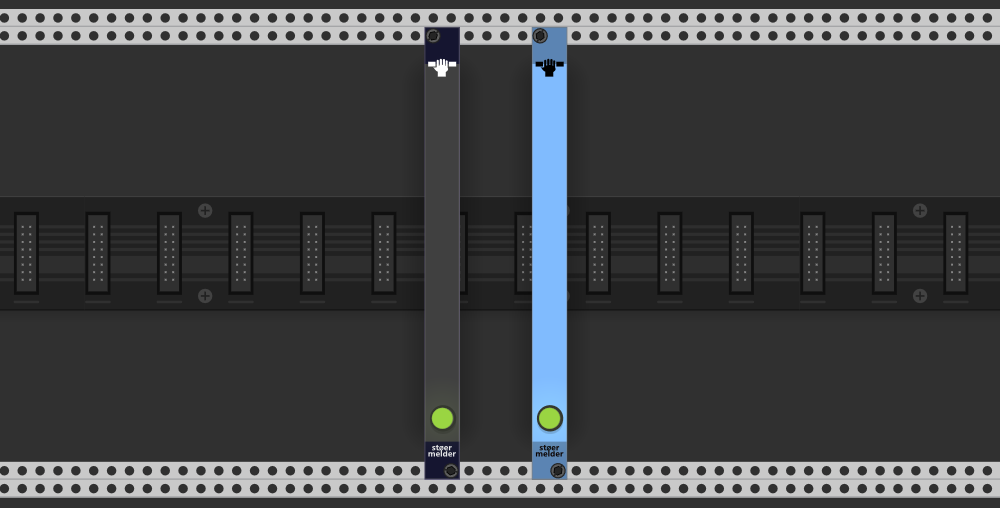
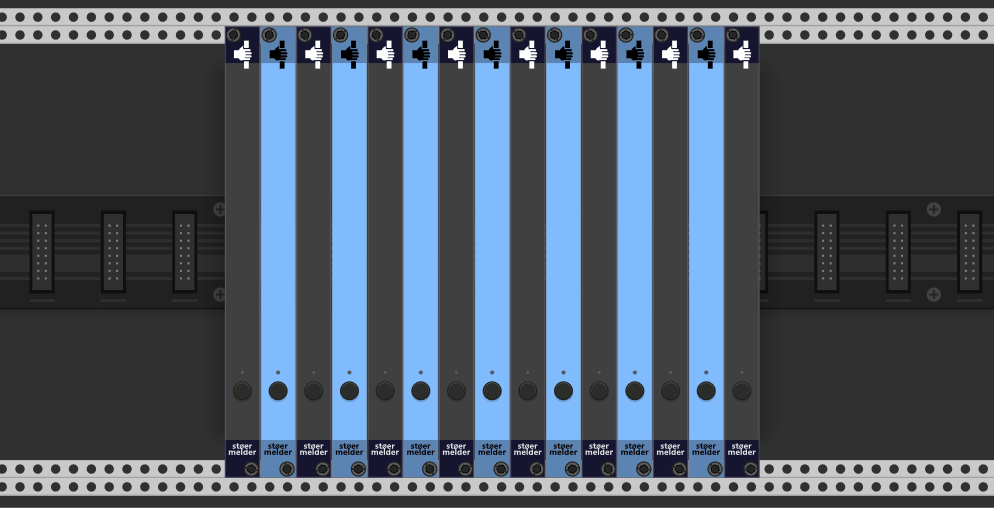
Grip - panel refinements

diff --git a/src/Grip.cpp b/src/Grip.cpp
@@ -17,13 +17,13 @@ struct GripModule : CVMapModuleBase<MAX_CHANNELS> {
 		NUM_OUTPUTS
 	};
 	enum LightIds {
-		ENUMS(LIGHT_BIND, 2),
+		LIGHT_BIND,
 		NUM_LIGHTS
 	};
 
 	/** [Stored to JSON] */
 	int panelTheme = 0;
-	/** [Stored to Json] */
+	/** [Stored to JSON] */
 	bool audioRate;
 
 	dsp::ClockDivider processDivider;
@@ -62,8 +62,7 @@ struct GripModule : CVMapModuleBase<MAX_CHANNELS> {
 		}
 
 		if (lightDivider.process()) {
-			lights[LIGHT_BIND + 0].setBrightness(learningId == -1 && mapLen > 0 ? 1.f : 0.f);
-			lights[LIGHT_BIND + 1].setBrightness(learningId >= 0 ? 1.f : 0.f);
+			lights[LIGHT_BIND].setBrightness(learningId >= 0 ? 1.f : 0.f);
 		}
 	}
 
@@ -112,7 +111,7 @@ struct GripModule : CVMapModuleBase<MAX_CHANNELS> {
 };
 
 
-struct MapButton : LEDBezel {
+struct MapButton : TL1105 {
 	GripModule* module;
 	int id;
 
@@ -151,13 +150,6 @@ struct MapButton : LEDBezel {
 	}
 };
 
-template <typename BASE>
-struct MapLight : BASE {
-	MapLight() {
-		this->box.size = mm2px(Vec(6.f, 6.f));
-	}
-};
-
 struct GripWidget : ThemedModuleWidget<GripModule> {
 	GripWidget(GripModule* module)
 		: ThemedModuleWidget<GripModule>(module, "Grip") {
@@ -166,10 +158,10 @@ struct GripWidget : ThemedModuleWidget<GripModule> {
 		addChild(createWidget<StoermelderBlackScrew>(Vec(0, 0)));
 		addChild(createWidget<StoermelderBlackScrew>(Vec(box.size.x - 1 * RACK_GRID_WIDTH, RACK_GRID_HEIGHT - RACK_GRID_WIDTH)));
 
-		MapButton* button = createParamCentered<MapButton>(Vec(15.0f, 328.5f), module, GripModule::PARAM_BIND);
+		addChild(createLightCentered<TinyLight<WhiteLight>>(Vec(15.f, 291.3f), module, GripModule::LIGHT_BIND));
+		MapButton* button = createParamCentered<MapButton>(Vec(15.0f, 306.7f), module, GripModule::PARAM_BIND);
 		button->module = module;
 		addParam(button);
-		addChild(createLightCentered<MapLight<GreenRedLight>>(Vec(15.f, 328.5f), module, GripModule::LIGHT_BIND));
 	}
 
 	void appendContextMenu(Menu* menu) override {

diff --git a/docs/Grip.md b/docs/Grip.md
@@ -4,7 +4,8 @@ GRIP is a small utility module which helps you to keep knobs, faders, switchs or
 
 ![GRIP intro](./Grip-intro.png)
 
-A parameter can be locked by activating "mapping mode" (red light) using the single button on the panel and a click on the parameter afterwards, a red mapping square will appear next to it. Mutiple parameters can be locked by repeating this procedure and a list of all locked parameters is shown in the context menu of the module.
+A parameter can be locked by activating "mapping mode" (red light) using the single button on the panel and a click on the parameter afterwards, a red mapping square will appear next to it. Mutiple parameters can be locked by repeating this procedure and a list of all locked parameters is shown in the context menu of the module.  
+One instance of GRIP can lock up to 32 parameters.
 
 ![GRIP lock](./Grip-lock.gif)
 
